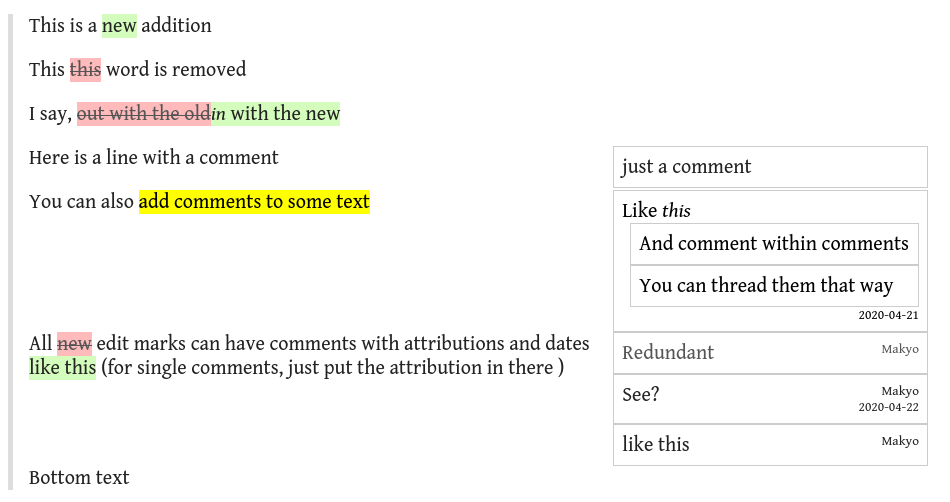
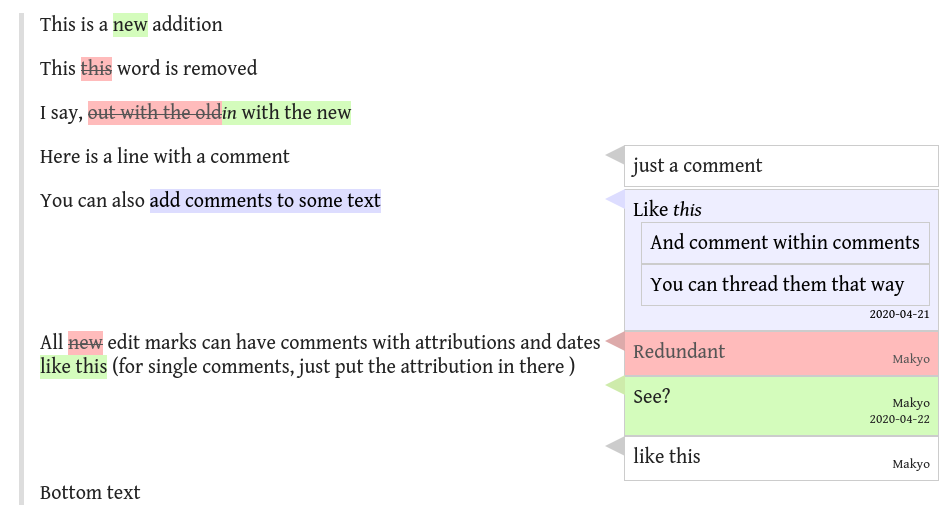
Styling info

Changed region(s): [[0.0, 0.0, 1.0, 0.9861]]

diff --git a/sample.css b/sample.css
@@ -1,0 +1,91 @@
+/* Editing extension */
+del.deletion, .substitution del {
+    text-decoration: line-through;
+    background-color: #fbb;
+    color: #555;
+}
+
+ins.addition, .substitution ins {
+    text-decoration: none;
+    background-color: #d4fcbc;
+}
+
+mark.selected {
+    background-color: #ddf;
+}
+
+q.comment {
+    display: block;
+    float: right;
+    width: 33%;
+    border: 1px solid #ccc;
+    margin-left: 0.5rem;
+    padding: 0.5rem;
+    clear: both;
+}
+
+q.comment q.comment {
+    /* Do not float or size nested comments. */
+    float: none;
+    width: auto;
+}
+
+q.comment .attribution, q.comment .date {
+    font-size: 10pt;
+    display: inline-block;
+    float: right;
+    clear: both;
+}
+
+q.comment::before, q.comment::after {
+    /* Use pseudo-elements for clearfix. */
+    content: "";
+    display: block;
+    clear: both;
+}
+
+p q.comment::before {
+    /* Add an arrow pointing back to the line. */
+    width: 0;
+    height: -0.5rem;
+    float: left;
+    border-top: 10px solid transparent;
+    border-bottom: 10px solid transparent;
+    border-right: 20px solid #ccc;
+    margin-left: calc(-1rem - 12px);
+    margin-top: calc(-0.5rem - 1.195px);
+}
+
+ins q.comment::before {
+    border-right-color: #ceebab;
+}
+
+ins q.comment {
+    background-color: #d4fcbc;
+}
+
+del q.comment::before {
+    border-right-color: #daa;
+}
+
+del q.comment {
+    background-color: #fbb;
+}
+
+mark q.comment::before {
+    border-right-color: #ddf;
+}
+
+mark q.comment {
+    background-color: #eef;
+}
+
+q.comment q.comment::before {
+    /* don't add arrow on nested comments. */
+    border: none;
+}
+
+p + p {
+    /* Clearfix on repeated paragraphs (repeated needed to allow TOC float). */
+    clear: both;
+}

diff --git a/README.md b/README.md
@@ -30,54 +30,4 @@ Leads to:
 <p>Bottom text</p>
 ```
 
-Which, with this stylesheet:
-
-```css
-/* Editing extension */
-del.deletion, .substitution del {
-    text-decoration: line-through;
-    background-color: #fbb;
-    color: #555;
-}
-
-ins.addition, .substitution ins {
-    text-decoration: none;
-    background-color: #d4fcbc;
-}
-
-q.comment {
-    display: block;
-    float: right;
-    width: 33%;
-    border: 1px solid #ccc;
-    margin-left: 0.5rem;
-    padding: 0.5rem;
-    clear: both;
-}
-
-q.comment q.comment {
-    float: none;
-    width: auto;
-}
-
-q.comment .attribution, q.comment .date {
-    font-size: 10pt;
-    display: inline-block;
-    float: right;
-    clear: both;
-}
-
-q.comment::before, q.comment::after {
-    content: "";
-    display: table;
-    clear: both;
-}
-
-p {
-    clear: both;
-}
-```
-
-Looks like this:
-
-![Sample](sample.png)
+It will take some styling to get it looking right. You can see a sample image [here](https://github.com/makyo/markdown-editing/blob/master/sample.png) which is generated using [this stylesheet](https://github.com/makyo/markdown-editing/blob/master/sample.css)
